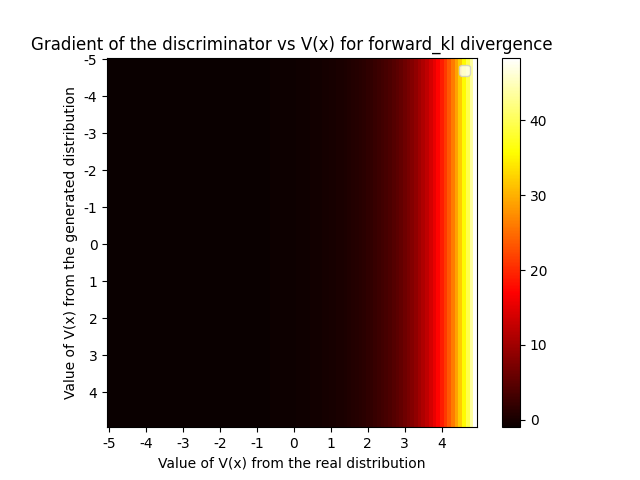
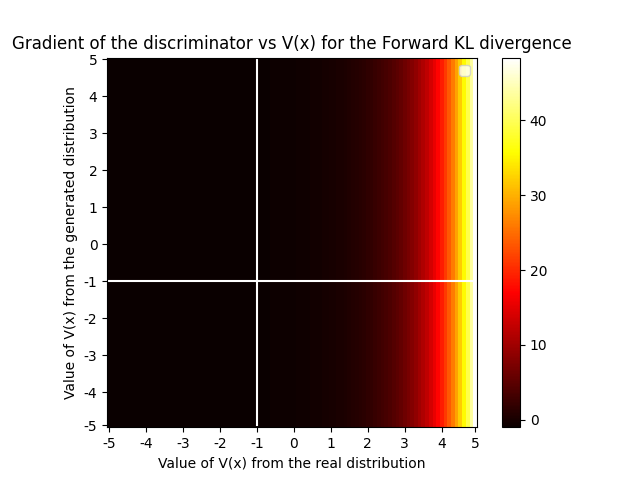
prettier graphs

diff --git a/PlotgradVsTx.py b/PlotgradVsTx.py
@@ -52,8 +52,10 @@ for loss,color,fprim in zip(['total_variation', 'forward_kl', 'reverse_kl', 'pea
     y = []
     div = Divergence(loss)
     variable = torch.zeros(1, requires_grad=True)
-    for i in x:
+    #Fill Y axis from 5 to -5
+    for i in x[::-1]:
         arr=[]
+        #Fill x axis from -5 to 5
         for j in x:
             variable = torch.zeros(1, requires_grad=True) + i
             variable2 = torch.zeros(1, requires_grad=True)+j
@@ -62,9 +64,13 @@ for loss,color,fprim in zip(['total_variation', 'forward_kl', 'reverse_kl', 'pea
             grad2=torch.autograd.grad(lg, variable2)
             arr.append(grad[0]+grad2[0])
         y.append(arr)
-
+    # print(fprim)
+    line=np.zeros_like(x)+(fprim+5)*10
+    # print(line)
     figure, axes = plt.subplots()
     plt.imshow(y, cmap='hot', interpolation='nearest')
+    plt.plot(np.arange(0,100), line, color='white')
+    plt.plot(np.zeros_like(x)+(-fprim+5)*10,np.arange(0,100), color='white')
 
     # plt.plot(x, y, label=loss, color=color)
 
@@ -77,8 +83,22 @@ for loss,color,fprim in zip(['total_variation', 'forward_kl', 'reverse_kl', 'pea
     # axes.axis([-5,5,-5,5])
     # axes.set_xlim([xmin,xmax])
     # axes.set_ylim([-10,10])
-    plt.xticks(np.arange(0,100, 10), [-5,-4,-3,-2,-1,0,1,2,3,4])
-    plt.yticks(np.arange(0,100, 10), [-5,-4,-3,-2,-1,0,1,2,3,4])
-    plt.title(f'Gradient of the discriminator vs V(x) for {loss} divergence')
+    # print(np.arange(0,100, 10))
+    # print(np.append(np.arange(0,100, 10), 99))
+    plt.xticks(np.append(np.arange(0,100, 10), 99), [-5,-4,-3,-2,-1,0,1,2,3,4, 5])
+    plt.yticks(np.append(np.arange(0,100, 10), 99), [5,4,3,2,1,0,-1,-2,-3,-4, -5])
+    if loss=='total_variation':
+        title='Total Variation'
+    elif loss=='forward_kl':
+        title='Forward KL'
+    elif loss=='reverse_kl':
+        title='Reverse KL'
+    elif loss=='pearson':
+        title='Pearson'
+    elif loss=='hellinger':
+        title='Hellinger'
+    elif loss=='jensen_shannon':
+        title='Jensen Shannon'
+    plt.title(f'Gradient of the discriminator vs V(x) for the {title} divergence')
     plt.savefig(f"Grad_Graphs/GradientOfDiscriminator{loss}.png")
     plt.close(fig)
